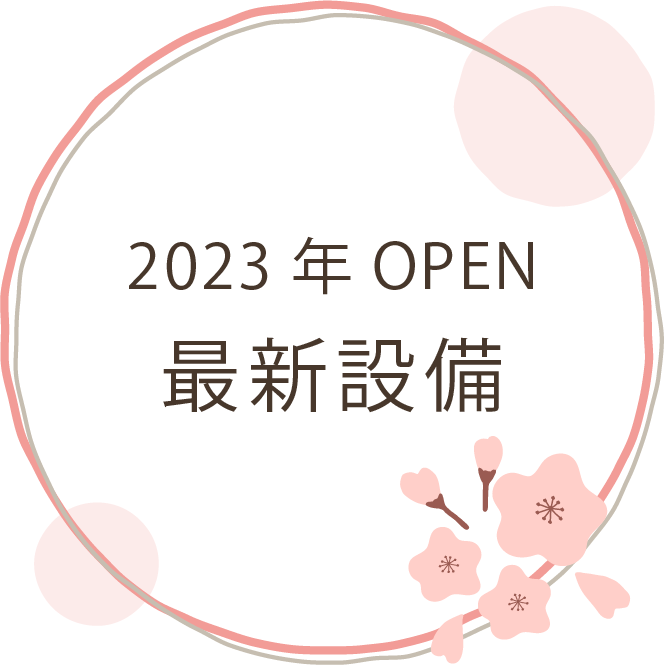
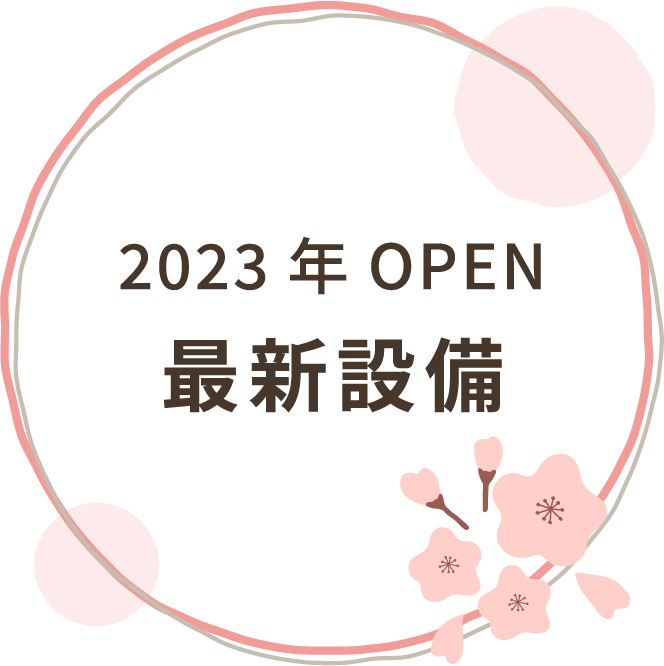
sp:plan third

diff --git a/kaede.html b/kaede.html
@@ -86,7 +86,7 @@
           <div class="head">
             <h1>
               ご入居の皆さまが笑顔で安心できる
-              <br class="sp" />場所でありたい
+              <br />場所でありたい
             </h1>
             <p>
               ご自身のお身体の状況に合わせて、必要な生活支援サービスを受けることができます。<br />
@@ -331,10 +331,7 @@
                   </td>
                 </tr>
                 <tr>
-                  <th>
-                    体験入居
-                    <p>(利用時のみ)</p>
-                  </th>
+                  <th>体験入居(利用時のみ)</th>
                   <td class="center">6,000円<span>税込</span>/泊</td>
                   <td class="content">
                     空床時、1泊あたり6,000円で体験利用ができます。<br />
@@ -394,7 +391,8 @@
                 <tr>
                   <th rowspan="2">家賃</th>
                   <td class="light">
-                    (トイレ有り)55,000円 <span>非課税</span>
+                    (トイレ有り)55,000円 非課税<br />
+                    (トイレ無し)50,000円 非課税
                   </td>
                   <td rowspan="2" class="content">
                     居室料となります。※地域相場に合わせての金額設定です。
@@ -402,30 +400,23 @@
                   </td>
                 </tr>
                 <tr>
-                  <td class="light">
-                    (トイレ無し)50,000円 <span>非課税</span>
-                  </td>
-                </tr>
-                <tr>
                   <th>管理費</th>
-                  <td>35,000円 <span>非課税</span></td>
+                  <td>35,000円 非課税</td>
                   <td class="content">
                     1日あたり1,167円×30日等（端数切り下げ）基本の水道光熱費を含みます。その他、管理費に含まれるサービスは下記の通りです。
                   </td>
                 </tr>
                 <tr>
                   <th>食費(3食 / 日)</th>
-                  <td>45,000円 <span>税込</span></td>
+                  <td>45,000円 税込</td>
                   <td class="content">
-                    1日あたり1,500円1ヶ月30日の場合朝(350円)<br />
+                    1日あたり1,500円<br />1ヶ月30日の場合朝(350円)<br />
                     昼(500円) 夕(500円) おやつ代(150円)<br />
-                    <span
-                      >※ソフト食、ムース食、刻み食は、朝昼夕の単価に100円のプラス</span
-                    >
+                    ※ソフト食、ムース食、刻み食は、朝昼夕の単価に100円のプラス
                   </td>
                 </tr>
                 <tr>
-                  <th colspan="3" class="total">合計 130,000円～135,000円</th>
+                  <td colspan="3" class="total">合計 130,000円～135,000円</td>
                 </tr>
               </tbody>
             </table>
@@ -470,6 +461,72 @@
                 <tr>
                   <th colspan="2">医療費・薬剤費</th>
                   <td class="light">実 費</td>
+                  <td class="content">
+                    医療サービスが必要な方は、医療費、薬剤費の自己負担分
+                  </td>
+                </tr>
+                <tr>
+                  <th colspan="2">日常生活費</th>
+                  <td class="light">実 費</td>
+                  <td class="content">
+                    個人の電話代、理美容代、娯楽費（材料費、イベント参加費）、クリーニング等の日常生活にかかる費用
+                  </td>
+                </tr>
+                <tr>
+                  <th colspan="2">介護サービス自己負担</th>
+                  <td class="light">実 費</td>
+                  <td class="content">
+                    訪問介護サービス等の介護サービスをご利用になった場合は、負担割に応じて自己負担額をお支払いいただきます。
+                  </td>
+                </tr>
+                <tr>
+                  <th colspan="2">外出同行サービス</th>
+                  <td class="light">3,300円<span>税込</span>/時間</td>
+                  <td class="content">
+                    買い物、通院などの外出時にご利用いただけます。
+                  </td>
+                </tr>
+                <tr>
+                  <th colspan="2">電気代</th>
+                  <td class="light">月額350円<span>税込</span>/1品</td>
+                  <td class="content">
+                    持ち込み電化製品1品につき、月額350円の電気代をお支払いいただきます。
+                  </td>
+                </tr>
+              </tbody>
+            </table>
+          </div>
+          <div class="third table sp">
+            <p>その他の費用</p>
+            <table>
+              <tbody>
+                <tr>
+                  <th>洗濯サービス</th>
+                  <td>4,950円税込/月</td>
+                  <td class="content">
+                    ご希望に合わせて洗濯サービスをご利用いただけます。
+                  </td>
+                </tr>
+                <tr>
+                  <th>定額サービス</th>
+                  <td class="content">
+                    Aセット 330円税込/日<br />
+                    テープ式おむつ・パンツ紙器・尿取りパット(昼用・夜用)
+                  </td>
+                  <td class="content">
+                    Bセット 308円税込/日<br />
+                    テープ式おむつ・尿取りパット(昼用・夜用)
+                  </td>
+                  <td class="content">
+                    Cセット 385円税込/日(11,550円/月)<br />
+                    寝具類(枕・枕カバー・シーツ・掛布団・包帯・ベッドパッド<br />
+                    ・防水シーツ)タオル類(バスタオル・フェイスタオル)<br />
+                    日用品(シャンプー・リンス・リンスインシャンプー・ボディーソープ・ハンドソープ・ティッシュ・ペーパータオル・マウススポンジ・歯ブラシ・歯磨き粉・入れ歯洗浄剤・入れ歯ケース・薬のみ・乳液・保湿クリーム・保湿化粧水ローション・ストロー・コップ)※トイレットペーパーは施設で用意します
+                  </td>
+                </tr>
+                <tr>
+                  <th>医療費・薬剤費</th>
+                  <td>実 費</td>
                   <td class="content">
                     医療サービスが必要な方は、医療費、薬剤費の自己負担分
                   </td>

diff --git a/kaede/css/style.css b/kaede/css/style.css
@@ -72,6 +72,12 @@ body {
     background: url("../img/head-bg.png") no-repeat center center / contain;
   }
 }
+@media (max-width: 428px) {
+  .head {
+    padding: 30px 0 15px;
+    background: url("../img/head-bg-sp.png") no-repeat center center / cover;
+  }
+}
 .head h1 {
   font-size: 52px;
   line-height: calc(87 / 52);
@@ -294,6 +300,7 @@ body {
 }
 .servicies table {
   width: 100%;
+  background: #fff;
 }
 @media (max-width: 428px) {
   .servicies table {
@@ -333,6 +340,7 @@ body {
   width: 383px;
   text-align: left;
   vertical-align: middle;
+  color: #ff386b;
 }
 @media (max-width: 1200px) {
   .servicies tr th {
@@ -352,7 +360,6 @@ body {
 @media (max-width: 428px) {
   .servicies tr th {
     border-bottom: 1px dashed #333;
-    color: #ff386b;
   }
 }
 .servicies tr td {
@@ -540,6 +547,10 @@ body {
 .photo {
   width: calc(25% - 20px * 3 / 4);
   margin-right: 20px;
+  margin-bottom: 35px;
+}
+.photo:nth-child(n + 5) {
+  margin-bottom: 0;
 }
 .photo img {
   width: 100%;
@@ -706,8 +717,14 @@ body {
   }
 }
 @media (max-width: 428px) {
-  .plan p {
+  .first p {
     margin-left: 40%;
+  }
+  .second p,
+  .third p {
+    text-align: center;
+    margin-bottom: 0;
+    padding: 25px 0;
   }
 }
 .plan span {
@@ -746,6 +763,7 @@ body {
 @media (max-width: 428px) {
   .plan table {
     width: 100%;
+    margin-bottom: 0;
   }
 }
 .table tr th {
@@ -753,7 +771,7 @@ body {
   font-size: 20px;
   letter-spacing: 0.1em;
   line-height: calc(21 / 20);
-  font-weight: 400;
+  font-weight: 600;
   width: 218px;
   min-width: 218px;
   text-align: left;
@@ -801,7 +819,7 @@ body {
   font-size: 18px;
   letter-spacing: 0.1em;
   line-height: calc(33.05 / 18);
-  font-weight: 400;
+  font-weight: 500;
   text-align: left;
   vertical-align: middle;
   padding: 25px 60px 25px 40px;
@@ -821,6 +839,8 @@ body {
     line-height: calc(24 / 16);
     letter-spacing: 0.17em;
     background: #fff;
+    text-align: center;
+    padding: 15px 0;
   }
   .table tr td.center {
     text-align: center;
@@ -842,13 +862,33 @@ body {
     display: block;
     min-width: auto;
     border: none;
+    text-align: left;
+    font-size: 16px;
+    font-weight: 500;
+  }
+  .third tr td.content {
+    border-bottom: 1px solid #c0b9b4;
+  }
+  .third tr:last-child td.content {
+    border-bottom: 0px solid #c0b9b4;
   }
 }
 .table.second tr td.light {
   padding: 0 60px 0 40px;
 }
-.table.second tr th.total {
+@media (max-width: 428px) {
+  .table.second tr td.light {
+    padding: 10px 0;
+  }
+}
+.table.second tr td.total {
   text-align: center;
+}
+@media (max-width: 428px) {
+  .table.second tr td.total {
+    padding: 0 0 45px 0;
+    font-weight: 600;
+  }
 }
 .table.second tr td span {
   font-size: 13px;
@@ -856,6 +896,12 @@ body {
 .table.third tr th {
   width: 109px;
   min-width: 109px;
+}
+@media (max-width: 428px) {
+  .table.third tr th {
+    width: 100%;
+    min-width: auto;
+  }
 }
 .table.third tr th.subscribe {
   padding: 10px;
@@ -871,16 +917,31 @@ body {
   padding: 25px 0;
   margin-bottom: 90px;
 }
+@media (max-width: 428px) {
+  .other {
+    border: 0px solid #47372b;
+    background: #fff;
+    padding: 35px 0;
+    margin-bottom: 0;
+  }
+}
 .other p {
   text-align: center;
   font-size: 18px;
-  font-weight: 400;
+  font-weight: 600;
   line-height: calc(21 / 18);
+  letter-spacing: 0.17em;
   margin-bottom: 30px;
 }
 @media (max-width: 767px) {
   .other p {
     font-size: 16px;
+  }
+}
+@media (max-width: 428px) {
+  .other p {
+    font-size: 20px;
+    line-height: calc(21 / 20);
   }
 }
 .other .lists {
@@ -897,7 +958,8 @@ body {
 @media (max-width: 428px) {
   .other .lists {
     display: block;
-    width: 90%;
+    width: 100%;
+    padding: 0 15px;
   }
 }
 .other .lists div:last-child {
@@ -910,4 +972,11 @@ body {
 }
 .other .lists div p {
   text-align: left;
+}
+@media (max-width: 428px) {
+  .other .lists div p {
+    font-size: 16px;
+    font-weight: 500;
+    margin-bottom: 10px;
+  }
 }
